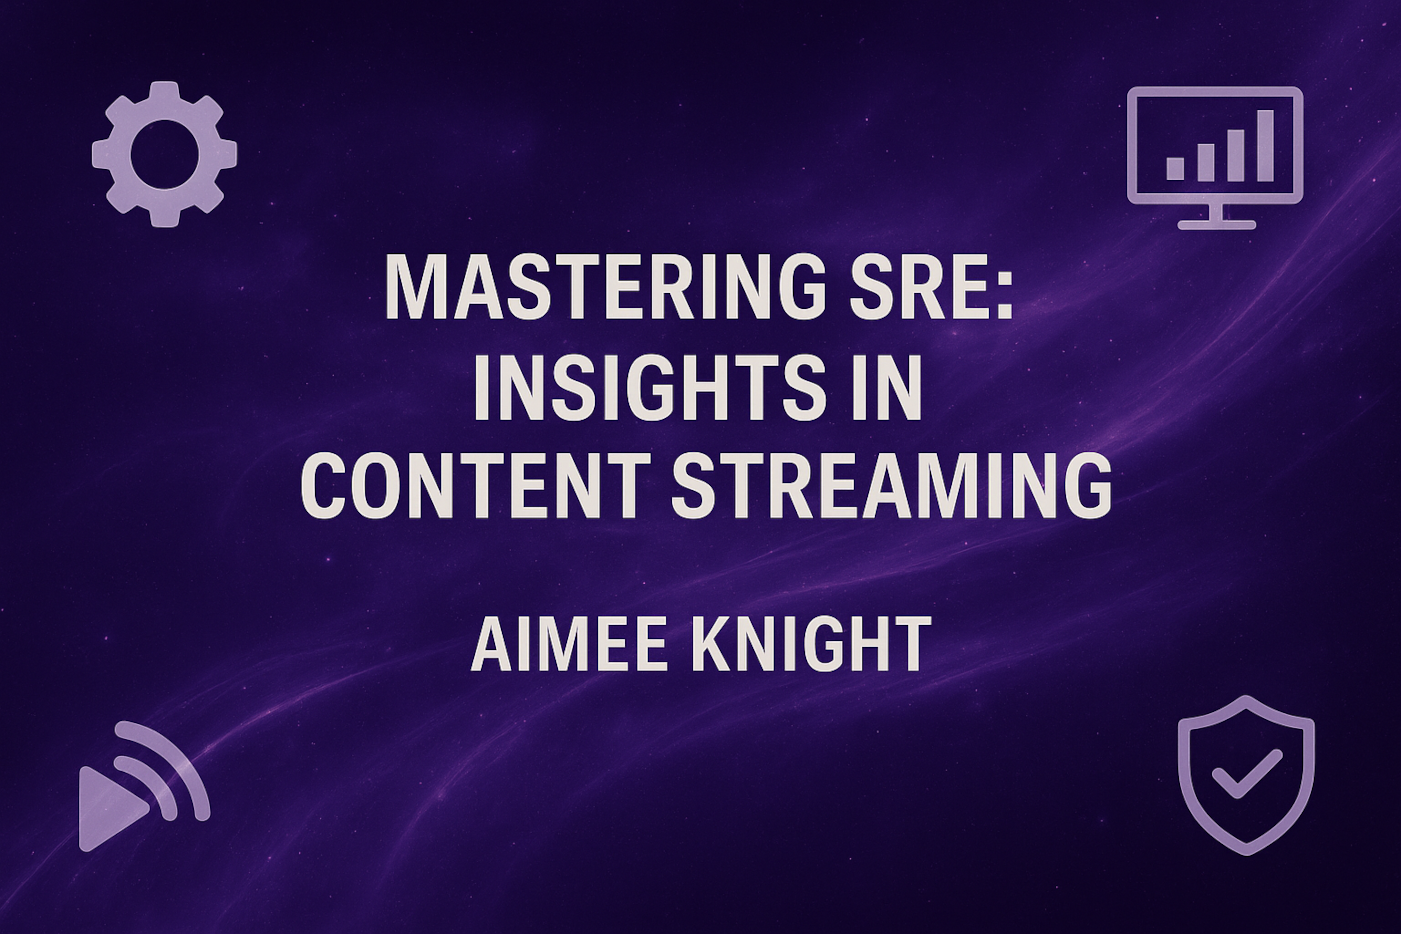
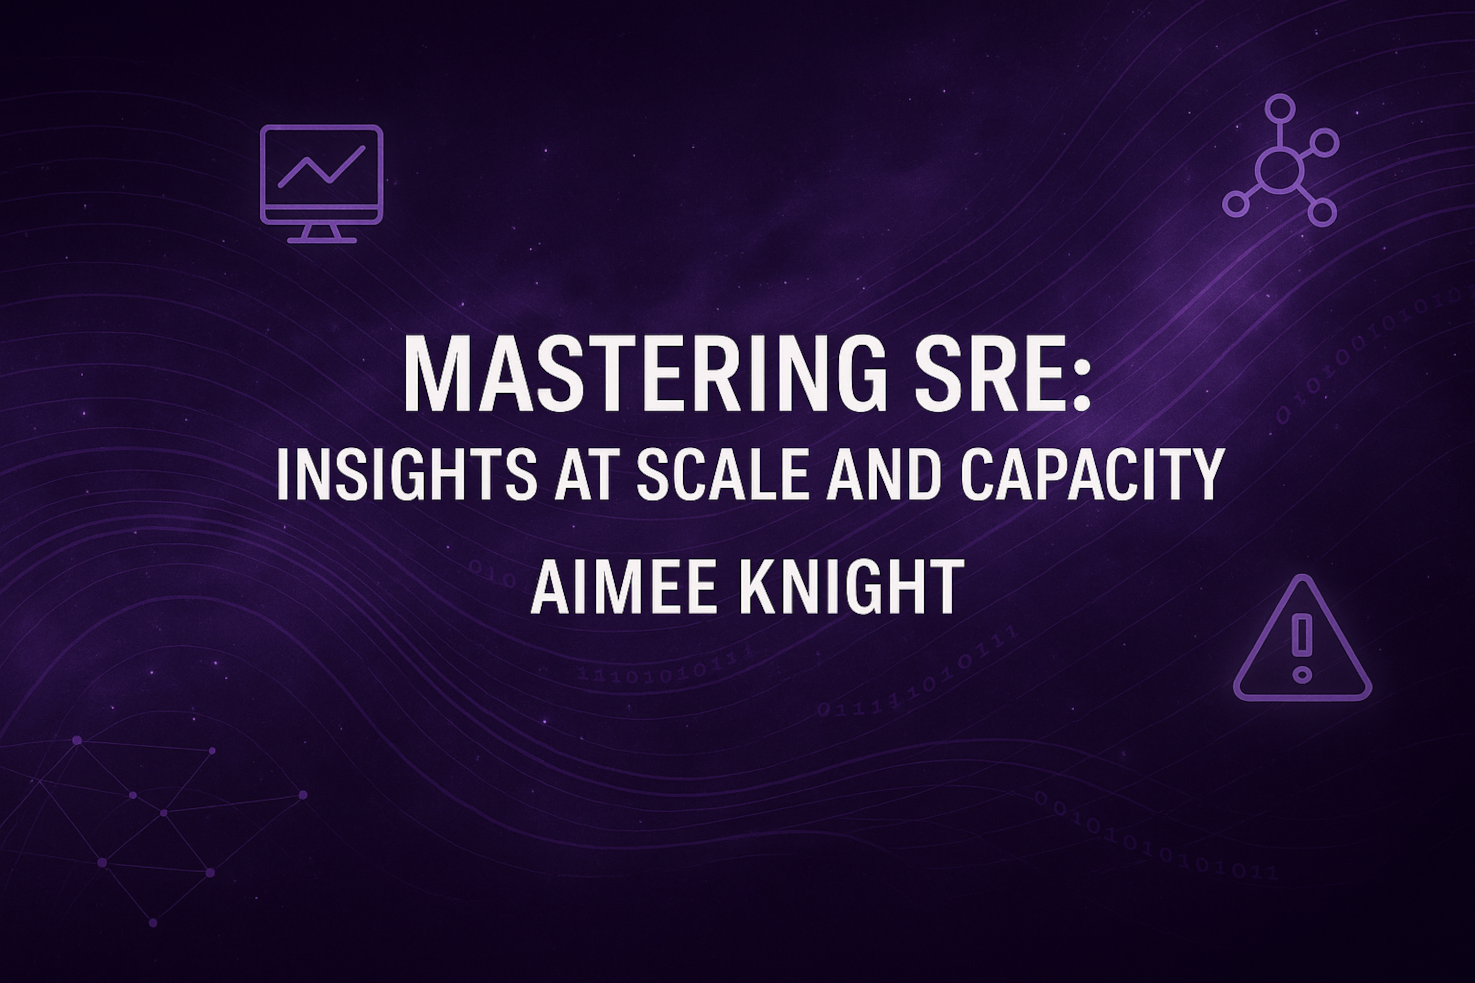
Improve title.

diff --git a/episodes/sre-insights-from-the-streaming-world/index.md b/episodes/sre-insights-from-the-streaming-world/index.md
@@ -1,7 +1,7 @@
 ---
 custom_slug: sre-insights-from-the-streaming-world
 hide_table_of_contents: true
-title: "Mastering SRE: Insights in Content Streaming"
+title: "Mastering SRE: Insights in Scale and at Capacity"
 description: "Join Aimee Knight as she shares her journey and insights into the world of Site Reliability Engineering (SRE)."
 image: ./post.png
 date: 2025-05-29
